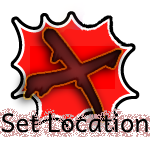
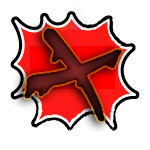
Befriender Fix v1.0.0

Changed region(s): [[0.0, 0.72, 1.0, 0.9333]]

diff --git a/TheOtherRoles/Buttons.cs b/TheOtherRoles/Buttons.cs
@@ -27,7 +27,8 @@ namespace TheOtherRoles
 
         public static CustomButton sacraficeButton;
 
-        public static CustomButton teleporterButton;
+        public static CustomButton teleporterMarkButton;
+        public static CustomButton teleporterTpButton;
 
         public static CustomButton ghostTpButton;
 
@@ -35,7 +36,8 @@ namespace TheOtherRoles
         public static CustomButton modifier1TimeKiller;
         public static CustomButton evilTrapperSelectButton;
 
-        public static CustomButton befrienderButton;
+        public static CustomButton befrienderBefriendButton;
+        public static CustomButton befrienderAllButton;
 
         private static CustomButton engineerRepairButton;
         private static CustomButton janitorCleanButton;
@@ -123,14 +125,16 @@ namespace TheOtherRoles
             haunterHauntButton.MaxTimer = Haunter.hauntCooldown;
             haunterKillButton.MaxTimer = Haunter.killCD;
 
-            teleporterButton.MaxTimer = Teleporter.Cooldown;
+            teleporterMarkButton.MaxTimer = Teleporter.Cooldown;
+            teleporterTpButton.MaxTimer = 2f;
             
             sniperSnipeButton.MaxTimer = Sniper.SnipeCD;
             ghostTpButton.MaxTimer = 0f;
             sacraficeButton.MaxTimer = 0f;
             modifier1TimeKiller.MaxTimer = 0f;
             evilTrapperSelectButton.MaxTimer = 0.5f;
-            befrienderButton.MaxTimer = Befriender.cooldown;
+            befrienderBefriendButton.MaxTimer = Befriender.cooldown;
+            befrienderAllButton.MaxTimer = 0f;
 
             engineerRepairButton.MaxTimer = 0f;
             janitorCleanButton.MaxTimer = Janitor.cooldown;
@@ -390,41 +394,70 @@ namespace TheOtherRoles
 
                 TheOtherRolesPlugin.Logger.LogMessage("Reveale done!");
 
-            befrienderButton = new CustomButton(
+            befrienderAllButton = new CustomButton(
+                () => {},
+                () => { return Befriender.befriender != null && Befriender.befriender == CachedPlayer.LocalPlayer.PlayerControl && Befriender.befriendedEveryoneAlive(); },
+                () => {
+                    bool befriendedEveryoneAlive = Befriender.befriendedEveryoneAlive();
+
+                    return CachedPlayer.LocalPlayer.PlayerControl.CanMove && (befriendedEveryoneAlive || Befriender.currentTarget != null);
+                },
+                () => {
+                },
+                Befriender.getBefriendAllSprite(),
+                CustomButton.ButtonPositions.lowerRowRight,
+                __instance,
+                KeyCode.F,
+                true,
+                1.5f,
                 () => {
                     bool BefriendedEveryoneAlive = Befriender.befriendedEveryoneAlive();
                     if (BefriendedEveryoneAlive) {
                         MessageWriter winWriter = AmongUsClient.Instance.StartRpcImmediately(CachedPlayer.LocalPlayer.PlayerControl.NetId, (byte)CustomRPC.BefrienderWin, Hazel.SendOption.Reliable, -1);
                         AmongUsClient.Instance.FinishRpcImmediately(winWriter);
                         RPCProcedure.befrienderWin();
-                        befrienderButton.HasEffect = false;
-                    } else if (Arsonist.currentTarget != null) {
+                    }
+                },
+                false,
+                "Befriend All"
+            );
+
+            befrienderBefriendButton = new CustomButton(
+                () => {
+                    /*bool BefriendedEveryoneAlive = Befriender.befriendedEveryoneAlive();
+                    if (BefriendedEveryoneAlive) {
+                        MessageWriter winWriter = AmongUsClient.Instance.StartRpcImmediately(CachedPlayer.LocalPlayer.PlayerControl.NetId, (byte)CustomRPC.BefrienderWin, Hazel.SendOption.Reliable, -1);
+                        AmongUsClient.Instance.FinishRpcImmediately(winWriter);
+                        RPCProcedure.befrienderWin();
+                        befrienderBefriendButton.HasEffect = false;
+                    }*/
+                    if (Befriender.currentTarget != null) {
                         Befriender.befrienderTarget = Befriender.currentTarget;
-                        befrienderButton.HasEffect = true;
+                        befrienderBefriendButton.HasEffect = true;
                         SoundEffectsManager.play("arsonistDouse");
                     }
                 },
-                () => { return Befriender.befriender != null && Befriender.befriender == CachedPlayer.LocalPlayer.PlayerControl && !CachedPlayer.LocalPlayer.Data.IsDead; },
+                () => { return Befriender.befriender != null && Befriender.befriender == CachedPlayer.LocalPlayer.PlayerControl && !CachedPlayer.LocalPlayer.Data.IsDead && !Befriender.befriendedEveryoneAlive(); },
                 () => {
                     bool dousedEveryoneAlive = Befriender.befriendedEveryoneAlive();
-                    if (dousedEveryoneAlive) {
-                        befrienderButton.actionButton.graphic.sprite = Befriender.getIgniteSprite(); 
-                    }
+                    /*if (dousedEveryoneAlive) {
+                        befrienderBefriendButton.actionButton.graphic.sprite = Befriender.getIgniteSprite(); 
+                    }*/
                     
-                    if (befrienderButton.isEffectActive && Befriender.befrienderTarget != Befriender.currentTarget) {
+                    if (befrienderBefriendButton.isEffectActive && Befriender.befrienderTarget != Befriender.currentTarget) {
                         Befriender.befrienderTarget = null;
-                        befrienderButton.Timer = 0f;
-                        befrienderButton.isEffectActive = false;
+                        befrienderBefriendButton.Timer = 0f;
+                        befrienderBefriendButton.isEffectActive = false;
                     }
 
                     return CachedPlayer.LocalPlayer.PlayerControl.CanMove && (dousedEveryoneAlive || Befriender.currentTarget != null);
                 },
                 () => {
-                    befrienderButton.Timer = befrienderButton.MaxTimer;
-                    befrienderButton.isEffectActive = false;
+                    befrienderBefriendButton.Timer = befrienderBefriendButton.MaxTimer;
+                    befrienderBefriendButton.isEffectActive = false;
                     Befriender.befrienderTarget = null;
                 },
-                Befriender.getDouseSprite(),
+                Befriender.getBefriendSprite(),
                 CustomButton.ButtonPositions.lowerRowRight,
                 __instance,
                 KeyCode.F,
@@ -433,7 +466,7 @@ namespace TheOtherRoles
                 () => {
                     if (Befriender.befrienderTarget != null) Befriender.befriendedPlayers.Add(Befriender.befrienderTarget);
                     
-                    befrienderButton.Timer = Befriender.befriendedEveryoneAlive() ? 0 : befrienderButton.MaxTimer;
+                    befrienderBefriendButton.Timer = Befriender.befriendedEveryoneAlive() ? 0 : befrienderBefriendButton.MaxTimer;
 
                     foreach (PlayerControl p in Befriender.befriendedPlayers) {
                         if (TORMapOptions.playerIcons.ContainsKey(p.PlayerId)) {
@@ -449,7 +482,9 @@ namespace TheOtherRoles
                     AmongUsClient.Instance.FinishRpcImmediately(writer);
 
                     Befriender.befrienderTarget = null;
-                }
+                },
+                false,
+                "Befriend"
             );
 
             TheOtherRolesPlugin.Logger.LogMessage("Befriender done!");
@@ -527,27 +562,29 @@ namespace TheOtherRoles
 
             TheOtherRolesPlugin.Logger.LogMessage("Sacrificer done!");
 
-            teleporterButton = new CustomButton(
+            teleporterTpButton = new CustomButton(
                 () => {
-                if (!Teleporter.hasPlacedLoc()) {
-                    Teleporter.loc = Teleporter.teleporter.transform.position;
-                    teleporterButton.Sprite = Teleporter.getTpSprite();
-                    teleporterButton.Timer = 1.99f;
-                    Teleporter.hasPlacedLocation = true;
-                    /// SAT LOCATION!
-                } else {
                     Teleporter.teleporter.transform.position = Teleporter.loc;
-                    teleporterButton.Sprite = Teleporter.getPlaceSprite();
-
-                    teleporterButton.Timer = teleporterButton.MaxTimer;
+                    teleporterMarkButton.Timer = teleporterMarkButton.MaxTimer;
                     Teleporter.hasPlacedLocation = false;
                     Teleporter.loc = new Vector3(0,0,0);
-                    // TPED
-                }},
-            () => { return Teleporter.teleporter != null && Teleporter.teleporter == CachedPlayer.LocalPlayer.PlayerControl; },
+                },
+                () => { return Teleporter.teleporter != null && Teleporter.teleporter == CachedPlayer.LocalPlayer.PlayerControl && Teleporter.hasPlacedLoc(); },
+                () => { return Teleporter.teleporter != null; },
+                () => { Teleporter.loc = new Vector3(0, 0, 0); Teleporter.hasPlacedLocation = false; },
+                Teleporter.getPlaceSprite(), CustomButton.ButtonPositions.upperRowLeft, __instance, null, true, 1f, () => {}, false, "Teleport"
+            );
+
+            teleporterMarkButton = new CustomButton(
+                () => {
+                    Teleporter.loc = Teleporter.teleporter.transform.position;
+                    teleporterTpButton.Timer = 1.99f;
+                    Teleporter.hasPlacedLocation = true;
+                    },
+            () => { return Teleporter.teleporter != null && Teleporter.teleporter == CachedPlayer.LocalPlayer.PlayerControl && !Teleporter.hasPlacedLoc(); },
             () => { return Teleporter.teleporter != null; },
-            () => { Teleporter.loc = new Vector3(0, 0, 0); },
-            Teleporter.getPlaceSprite(), CustomButton.ButtonPositions.upperRowLeft, __instance, null, true, 1f, () => {});
+            () => { Teleporter.loc = new Vector3(0, 0, 0); Teleporter.hasPlacedLocation = false; },
+            Teleporter.getPlaceSprite(), CustomButton.ButtonPositions.upperRowLeft, __instance, null, true, 1f, () => {}, false, "Mark");
 
             TheOtherRolesPlugin.Logger.LogMessage("Teleporter done!");
 
@@ -674,7 +711,7 @@ namespace TheOtherRoles
                 () => { return Recruiter.currentTarget && Recruiter.FutureRecruited == null && CachedPlayer.LocalPlayer.PlayerControl.CanMove; },
                 () => {},
                 Recruiter.getRecruitSprite(),
-                CustomButton.ButtonPositions.upperRowFarLeft,
+                CustomButton.ButtonPositions.lowerRowLeft,
                 __instance,
                 null,
                 false,

diff --git a/TheOtherRoles/CustomOptionHolder.cs b/TheOtherRoles/CustomOptionHolder.cs
@@ -57,6 +57,7 @@ namespace TheOtherRoles {
         public static CustomOption sniperSpawnRate;
         public static CustomOption sniperSnipeCD;
         public static CustomOption sniperSnipeKD;
+        public static CustomOption sniperCanVent;
 
         public static CustomOption haunterSpawnRate;
         public static CustomOption haunterKillCooldown;
@@ -523,38 +524,39 @@ namespace TheOtherRoles {
             sniperSpawnRate = CustomOption.Create(4021, Types.Impostor, cs(Palette.ImpostorRed , "Sniper"), rates, null, true);
             sniperSnipeCD = CustomOption.Create(4022, Types.Impostor, "Snipe Cooldown", 28f, 0f, 60f, 2f, sniperSpawnRate);
             sniperSnipeKD = CustomOption.Create(4023, Types.Impostor, "More kill distance", 2f, 0.5f, 8f, 0.5f, sniperSpawnRate);
+            sniperCanVent = CustomOption.Create(4024, Types.Impostor, "Can Vent", false, sniperSpawnRate);
 
-            teleporterSpawnRate = CustomOption.Create(4023, Types.Impostor, cs(Palette.ImpostorRed, "Teleporter"), rates, null, true);
-            teleporterCooldown = CustomOption.Create(4024, Types.Impostor, "Cooldown", 11.5f, 1f, 59.5f, 2.5f, teleporterSpawnRate);
+            teleporterSpawnRate = CustomOption.Create(4025, Types.Impostor, cs(Palette.ImpostorRed, "Teleporter"), rates, null, true);
+            teleporterCooldown = CustomOption.Create(4026, Types.Impostor, "Cooldown", 11.5f, 1f, 59.5f, 2.5f, teleporterSpawnRate);
 
-            sacrificerSpawnRate = CustomOption.Create(4025, Types.Crewmate, cs(Sacrificer.color, "Sacrificer"), rates, null, true);
+            sacrificerSpawnRate = CustomOption.Create(4027, Types.Crewmate, cs(Sacrificer.color, "Sacrificer"), rates, null, true);
 
-            betrayerSpawnRate = CustomOption.Create(4026, Types.Crewmate, cs(Betrayer.color, "Betrayer"), rates, null, true);
+            betrayerSpawnRate = CustomOption.Create(4028, Types.Crewmate, cs(Betrayer.color, "Betrayer"), rates, null, true);
 
-            modifierFlashSpawnRate = CustomOption.Create(4027, Types.Modifier, cs(Color.yellow, "Flash"), rates, null, true);
-            modifierFlashQuantity = CustomOption.Create(4028, Types.Modifier, "Quantity", ratesModifier, modifierFlashSpawnRate);
-            modifierFlashSpeed = CustomOption.Create(4029, Types.Modifier, "Speed", 2.5f, 0.5f, 10.0f, 0.1f, modifierFlashSpawnRate);
+            modifierFlashSpawnRate = CustomOption.Create(4029, Types.Modifier, cs(Color.yellow, "Flash"), rates, null, true);
+            modifierFlashQuantity = CustomOption.Create(4030, Types.Modifier, "Quantity", ratesModifier, modifierFlashSpawnRate);
+            modifierFlashSpeed = CustomOption.Create(4031, Types.Modifier, "Speed", 2.5f, 0.5f, 10.0f, 0.1f, modifierFlashSpawnRate);
 
-            modifierGiantSpawnRate = CustomOption.Create(4030, Types.Modifier, cs(Color.yellow, "Giant"), rates, null, true);
-            modifierGiantQuantity = CustomOption.Create(4031, Types.Modifier, "Quantity", ratesModifier, modifierGiantSpawnRate);
-            modifierGiantSpeed = CustomOption.Create(4032, Types.Modifier, "Speed", 0.2f, 0.2f, 10f, 0.1f, modifierGiantSpawnRate);
-            modifierGiantSize = CustomOption.Create(4033, Types.Modifier, "Size", 1.0f, 0.8f, 1.8f, 0.1f, modifierGiantSpawnRate);
+            modifierGiantSpawnRate = CustomOption.Create(4032, Types.Modifier, cs(Color.yellow, "Giant"), rates, null, true);
+            modifierGiantQuantity = CustomOption.Create(4033, Types.Modifier, "Quantity", ratesModifier, modifierGiantSpawnRate);
+            modifierGiantSpeed = CustomOption.Create(4034, Types.Modifier, "Speed", 0.2f, 0.2f, 10f, 0.1f, modifierGiantSpawnRate);
+            modifierGiantSize = CustomOption.Create(4035, Types.Modifier, "Size", 1.0f, 0.8f, 1.8f, 0.1f, modifierGiantSpawnRate);
             
-            modifierRecruiterSpawnRate = CustomOption.Create(4034, Types.Modifier, cs(Recruiter.color, "Recruiter"), rates, null, true);
+            modifierRecruiterSpawnRate = CustomOption.Create(4035, Types.Modifier, cs(Recruiter.color, "Recruiter"), rates, null, true);
            
-            modifierOneTimeKillerSpawnRate = CustomOption.Create(4035, Types.Modifier, cs(Sheriff.color, "1-TimeKiller"), rates, null, true);
+            modifierOneTimeKillerSpawnRate = CustomOption.Create(4036, Types.Modifier, cs(Sheriff.color, "1-TimeKiller"), rates, null, true);
 
-            evilTrapperSpawnRate = CustomOption.Create(4036, Types.Impostor, cs(Palette.ImpostorRed, "Evil-Trapper"), rates, null, true);
-            evilTrapperMaxCountOfDeadBodys = CustomOption.Create(4037, Types.Impostor, "Max body's trapped", 4, 1, 12, 1f, evilTrapperSpawnRate);
+            evilTrapperSpawnRate = CustomOption.Create(4037, Types.Impostor, cs(Palette.ImpostorRed, "Evil-Trapper"), rates, null, true);
+            evilTrapperMaxCountOfDeadBodys = CustomOption.Create(4038, Types.Impostor, "Max body's trapped", 4, 1, 12, 1f, evilTrapperSpawnRate);
 
-            befrienderSpawnRate = CustomOption.Create(4038, Types.Neutral, cs(Befriender.color, "Befriender"), rates, null, true);
-            befrienderCooldown = CustomOption.Create(4039, Types.Neutral, "Cooldown", 10.5f, 0.5f, 30f, 1.5f, befrienderSpawnRate);
-            befrienderDuration = CustomOption.Create(4040, Types.Neutral, "Befriend Duration", 1f, 0f, 15f, 1f, befrienderSpawnRate);
+            befrienderSpawnRate = CustomOption.Create(4039, Types.Neutral, cs(Befriender.color, "Befriender"), rates, null, true);
+            befrienderCooldown = CustomOption.Create(4040, Types.Neutral, "Cooldown", 10.5f, 0.5f, 30f, 1.5f, befrienderSpawnRate);
+            befrienderDuration = CustomOption.Create(4041, Types.Neutral, "Befriend Duration", 1f, 0f, 15f, 1f, befrienderSpawnRate);
 
-            revealerSpawnRate = CustomOption.Create(4041, Types.Crewmate, cs(Revealer.color, "Revealer"), rates, null, true);
-            revealerCooldown = CustomOption.Create(4042, Types.Crewmate, "Revealer Cooldown", 31f, 2f, 69f, 2f, revealerSpawnRate);
-            revealerShowNeutral = CustomOption.Create(4043, Types.Crewmate, "Show Neutral", true, revealerSpawnRate);
-            revealerRevealRole = CustomOption.Create(4044, Types.Crewmate, "Show Role", false, revealerSpawnRate);
+            revealerSpawnRate = CustomOption.Create(4042, Types.Crewmate, cs(Revealer.color, "Revealer"), rates, null, true);
+            revealerCooldown = CustomOption.Create(4043, Types.Crewmate, "Revealer Cooldown", 31f, 2f, 69f, 2f, revealerSpawnRate);
+            revealerShowNeutral = CustomOption.Create(4044, Types.Crewmate, "Show Neutral", true, revealerSpawnRate);
+            revealerRevealRole = CustomOption.Create(4045, Types.Crewmate, "Show Role", false, revealerSpawnRate);
 
             mafiaSpawnRate = CustomOption.Create(18, Types.Impostor, cs(Janitor.color, "Mafia"), rates, null, true);
             janitorCooldown = CustomOption.Create(19, Types.Impostor, "Janitor Cooldown", 30f, 10f, 60f, 2.5f, mafiaSpawnRate);

diff --git a/TheOtherRoles/TheOtherRoles.cs b/TheOtherRoles/TheOtherRoles.cs
@@ -145,14 +145,14 @@ namespace TheOtherRoles
             public static List<PlayerControl> befriendedPlayers = new List<PlayerControl>();
 
             private static Sprite douseSprite;
-            public static Sprite getDouseSprite() {
+            public static Sprite getBefriendSprite() {
                 if (douseSprite) return douseSprite;
                 douseSprite = Helpers.loadSpriteFromResources("TheOtherRoles.Resources.befriend.png", 115f);
                 return douseSprite;
             }
 
             private static Sprite igniteSprite;
-            public static Sprite getIgniteSprite() {
+            public static Sprite getBefriendAllSprite() {
                 if (igniteSprite) return igniteSprite;
                 igniteSprite = Helpers.loadSpriteFromResources("TheOtherRoles.Resources.BefriendEveryone.png", 115f);
                 return igniteSprite;
@@ -335,10 +335,12 @@ namespace TheOtherRoles
 
             public static float SnipeCD = 28f;
             public static float killDistance = 2;
+            public static bool canVent = false;
 
             public static void clearAndReload() {
                 sniper = null;
                 currentTarget = null;
+                canVent = CustomOptionHolder.sniperCanVent.getBool();
                 killDistance = CustomOptionHolder.sniperSnipeKD.getFloat();
                 SnipeCD = CustomOptionHolder.sniperSnipeCD.getFloat();
             }

diff --git a/TheOtherRoles/Helpers.cs b/TheOtherRoles/Helpers.cs
@@ -424,9 +424,10 @@ namespace TheOtherRoles {
                     roleCouldUse = false;
                 else if (Mafioso.mafioso != null && Mafioso.mafioso == CachedPlayer.LocalPlayer.PlayerControl && Godfather.godfather != null && !Godfather.godfather.Data.IsDead)
                     roleCouldUse = false;
-                else if (/*(Tasker.tasker && Tasker.tasker == player) || */(!Swooper.canVent && Swooper.swooper != null && Swooper.swooper == player)) {
+                else if (/*(Tasker.tasker && Tasker.tasker == player) || */(!Swooper.canVent && Swooper.swooper != null && Swooper.swooper == player))
                 roleCouldUse = false;
-            }
+                else if (Sniper.sniper && Sniper.sniper == player && !Sniper.canVent) 
+                roleCouldUse = false;
                 else
                     roleCouldUse = true;
             }

diff --git a/TheOtherRoles/Patches/UpdatePatch.cs b/TheOtherRoles/Patches/UpdatePatch.cs
@@ -314,6 +314,10 @@ namespace TheOtherRoles.Patches {
             }
         }
 
+        static void updateSniper() {
+
+        }
+
         static void updateShielded() {
             if (Medic.shielded == null) return;
 
@@ -379,6 +383,8 @@ namespace TheOtherRoles.Patches {
             else if (Swooper.swooper != null && Swooper.swooper == CachedPlayer.LocalPlayer.PlayerControl && !Swooper.isInvisible) {
                 enabled = false; }
             else if (Haunter.haunter != null && Haunter.haunter == CachedPlayer.LocalPlayer.PlayerControl && !Haunter.isHaunting) {
+                enabled = false; }
+            else if (Sniper.sniper != null && Sniper.sniper == CachedPlayer.LocalPlayer.PlayerControl) {    
                 enabled = false; }
             
             if (enabled) __instance.KillButton.Show();

diff --git a/TheOtherRoles/RPC.cs b/TheOtherRoles/RPC.cs
@@ -255,7 +255,7 @@ namespace TheOtherRoles
         }
 
         public static void setHost(byte playerId) {
-            PlayerControl nHost = GameData.Instance.GetPlayerById(playerId).Object;
+            PlayerControl nHost = Helpers.playerById(playerId);
             
             if (nHost == CachedPlayer.LocalPlayer.PlayerControl) {
                 UnityTelemetry._instance.amHost = true;
@@ -265,7 +265,7 @@ namespace TheOtherRoles
         }
 
         public static void setRoleTeam(byte roleTeam, byte playerId) {
-            PlayerControl p = GameData.Instance.GetPlayerById(playerId).Object;
+            PlayerControl p = Helpers.playerById(playerId);
             if (p != null) {
                 switch (roleTeam) {
                     case (byte)RoleTypes.Impostor:

diff --git a/TheOtherRoles/Patches/OnClickPatches.cs b/TheOtherRoles/Patches/OnClickPatches.cs
@@ -13,7 +13,7 @@ public static class clickPatch {
     public static void Prefix(PlayerControl __instance) {
         if (Sheriff.canClickOnPlayer) {
             PlayerControl local = CachedPlayer.LocalPlayer.PlayerControl;
-            if (Sheriff.sheriff != null && local == Sheriff.sheriff) {
+            if (Sheriff.sheriff != null && local == Sheriff.sheriff && __instance == Sheriff.currentTarget) {
                 if (HudManagerStartPatch.sheriffKillButton.Timer < 0.1f) {
                     MurderAttemptResult murderAttemptResult = Helpers.checkMurderAttempt(Sheriff.sheriff, Sheriff.currentTarget);
                         if (murderAttemptResult == MurderAttemptResult.SuppressKill) return;

diff --git a/TheOtherRoles/Patches/EndGamePatch.cs b/TheOtherRoles/Patches/EndGamePatch.cs
@@ -156,8 +156,9 @@ namespace TheOtherRoles.Patches {
                 TempData.winners = new Il2CppSystem.Collections.Generic.List<WinningPlayerData>();
                 foreach (PlayerControl p in PlayerControl.AllPlayerControls) {
                     if (!p.Data.IsDead) {
-                        GameData.PlayerInfo d = p.Data;
-                        TempData.winners.Add(new WinningPlayerData(d));
+                        p.clearCustomRole();
+                        Helpers.MurderPlayer(Befriender.befriender, p, true);
+                        TempData.winners.Add(new WinningPlayerData(p.Data));
                     }
                 }
             }

diff --git a/TheOtherRoles/Patches/PlayerControlPatch.cs b/TheOtherRoles/Patches/PlayerControlPatch.cs
@@ -45,8 +45,8 @@ namespace TheOtherRoles.Patches {
 
         static void sniperSetTarget() {
             if (Sniper.sniper == null || Sniper.sniper != CachedPlayer.LocalPlayer.PlayerControl) return;
-            Sniper.currentTarget = setTarget(false, true, null, Sniper.sniper, Sniper.killDistance);
-            setPlayerOutline(Sniper.currentTarget, Palette.Black);
+            Sniper.currentTarget = setTarget(true, true, null, Sniper.sniper, Sniper.killDistance);
+            setPlayerOutline(Sniper.currentTarget, Palette.ImpostorRed);
         }
 
         static void sacraficerSetTarget() {
